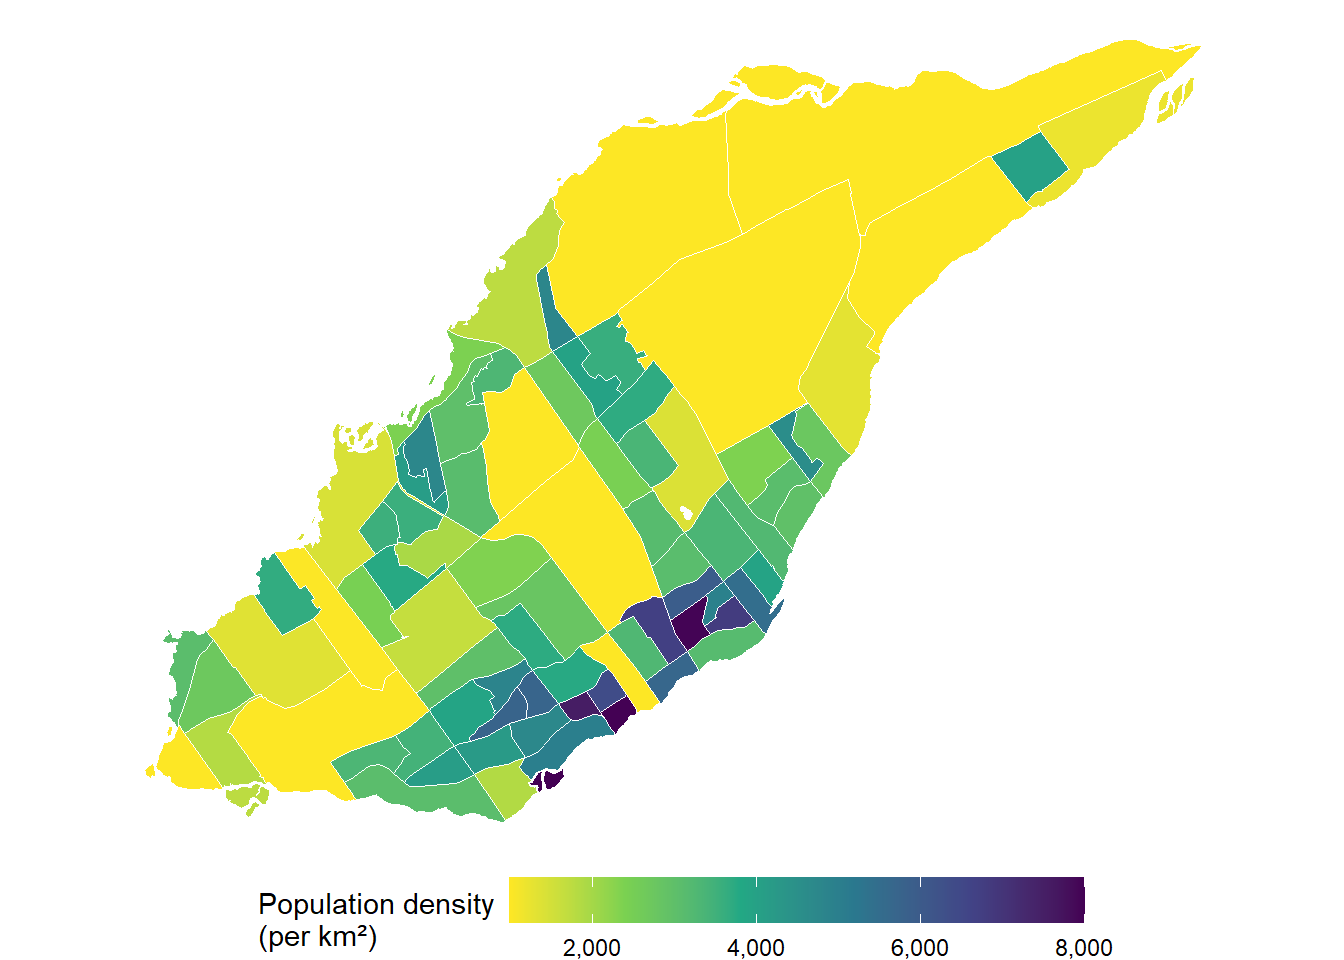
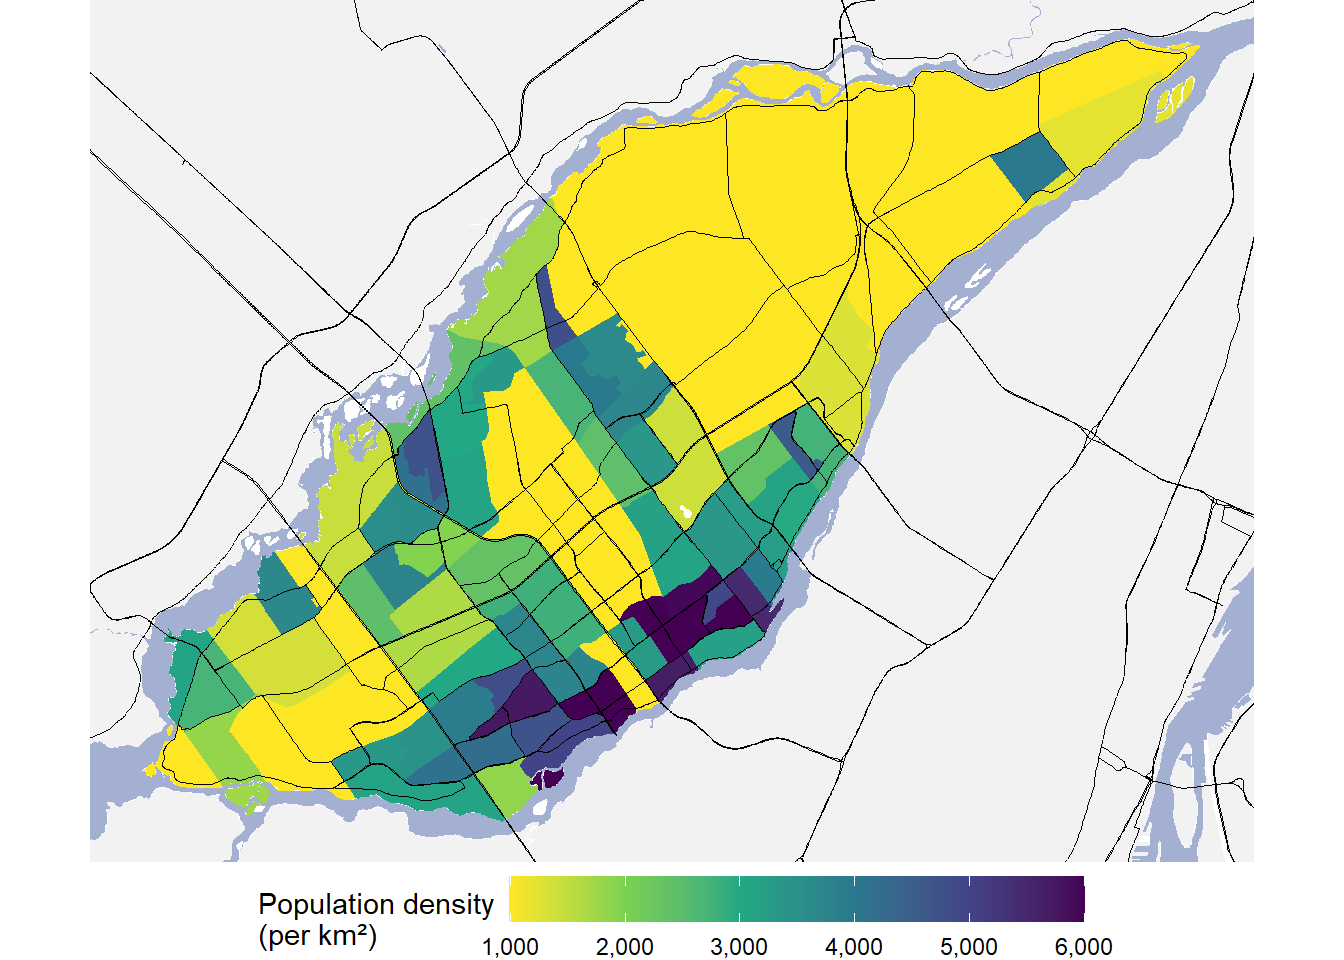
addition of geom context and density change plot

diff --git a/_book/_main.html b/_book/_main.html
@@ -142,6 +142,13 @@ Figure 1: Densité de la population lavalloise selon les secteurs de recensement
 </div>
 <div id="changement-dans-le-temps" class="section level2 hasAnchor" number="0.3">
 <h2><span class="header-section-number">0.3</span> Changement dans le temps<a href="#changement-dans-le-temps" class="anchor-section" aria-label="Anchor link to header"></a></h2>
+<div class="figure" style="text-align: center"><span style="display:block;" id="fig:popDensityPlotChange"></span>
+<img src="_main_files/figure-html/popDensityPlotChange-1.png" alt="Laval change in population density, 2016-2021" width="672" />
+<p class="caption">
+Figure 2: Laval change in population density, 2016-2021
+</p>
+</div>
+<p>La figure <a href="#fig:popDensityPlotChange">2</a> informe la densité de la population sur le territoire.</p>
 </div>
 <div id="comparaison-avec-la-province" class="section level2 hasAnchor" number="0.4">
 <h2><span class="header-section-number">0.4</span> Comparaison avec la province<a href="#comparaison-avec-la-province" class="anchor-section" aria-label="Anchor link to header"></a></h2>
